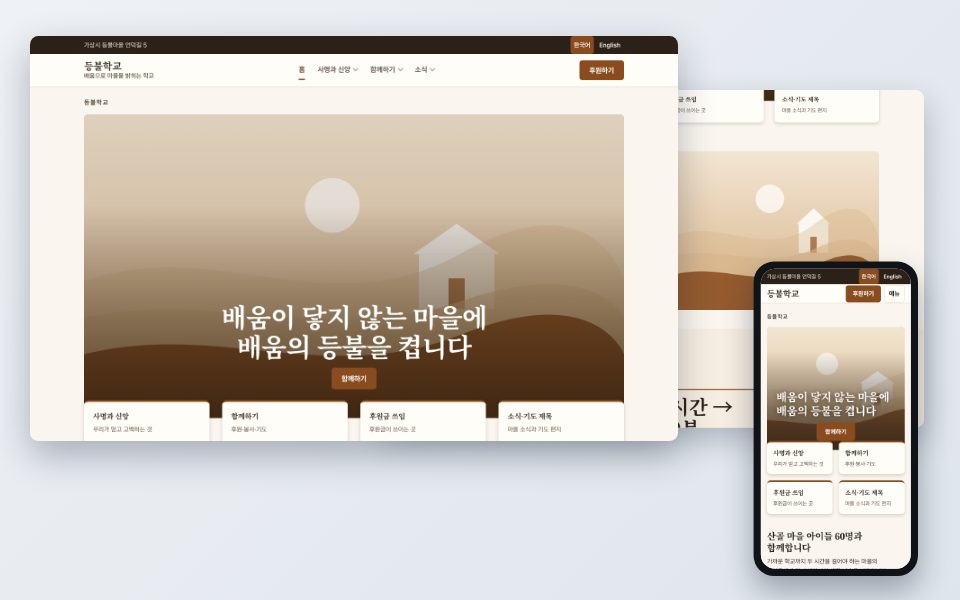
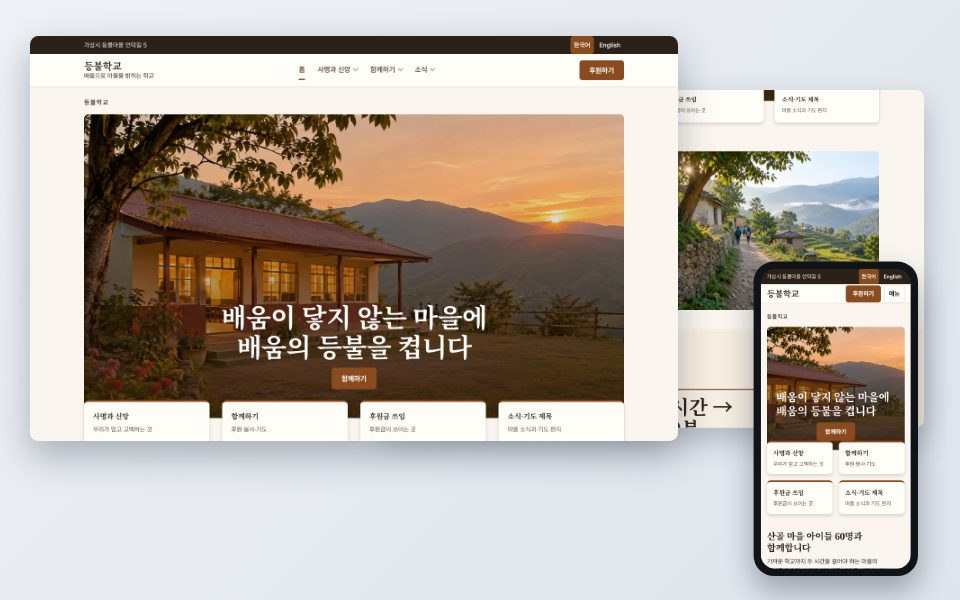
썸네일 5종 새 사진으로 다시 찍기 + 129차 기록에 사진 반영 덧붙임
Claude-Session: https://claude.ai/code/session_013RZyUom6xS67hpTPYHpecQ

Changed region(s): [[0.0625, 0.18, 0.6562, 0.66], [0.6875, 0.24, 0.9375, 0.54], [0.7812, 0.54, 0.9688, 0.72]]

diff --git a/docs/rounds/round-129.md b/docs/rounds/round-129.md
@@ -16,3 +16,9 @@
 ## 공통 규칙 (키트 테마만, campus·dawn 제외)
 1. 항목이 1~2개인 카드·사실 목록은 줄 끝까지 늘이지 않고 내용 폭(한 칸 최소 20rem)으로 둔다.
 2. 짧은 글 구역이 이어지면 넓은 화면에서 [제목 | 글] 두 칸으로 놓고, 구역 사이는 선 하나와 작은 여백으로 잇는다. 휴대폰은 그대로 위아래. 묶음 판정은 렌더러가 `data-run`(first·next)으로 붙여 편집 화면에서도 같은 배치가 보이고, 제목·머리말이 없는 구역은 두 칸을 쓰지 않는다(`data-run-head`, Codex 지적 반영).
+
+## 덧붙임: 나머지 5종 예시 사진 13장 (#197 → #231, Codex)
+- Codex가 알림·입학 모집·사명·국제·한 쪽 소개 템플릿의 예시 사진 13장(가상, 사진풍)을 만들어 `SAMPLE_PHOTOS`에 등록했다. 이제 8종 모두 자리 그림(SVG) 대신 사진(JPG 35장)을 쓴다.
+- 검수(Claude): 13장 모두 얼굴이 보이지 않고(뒷모습·사물·건물), 글자·간판·로고가 없다. 크기는 대표 1600×900, 나머지 1200×900, 모두 300KB 아래.
+- 템플릿 썸네일 5개(notice·admissions·mission·international·single)를 새 사진으로 다시 찍었다.
+- 교훈: Codex 작업은 끝나도 PR 게시 단계에서 멈출 수 있다(02:11 완료 → 06:27 게시). Codex 쪽 지침 보완은 #232.
